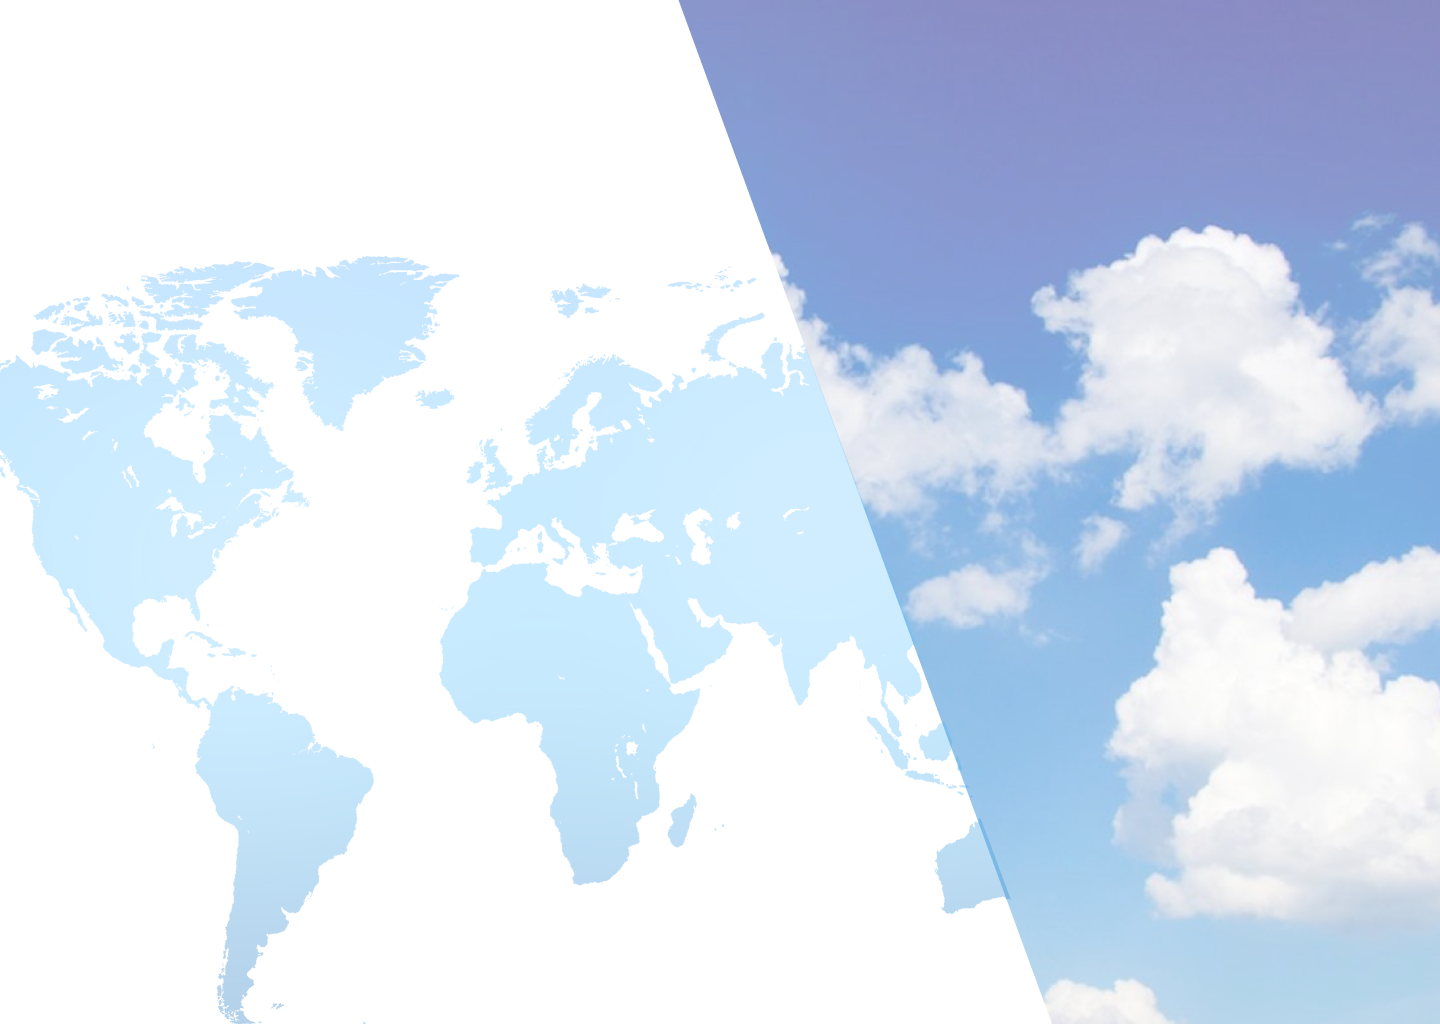
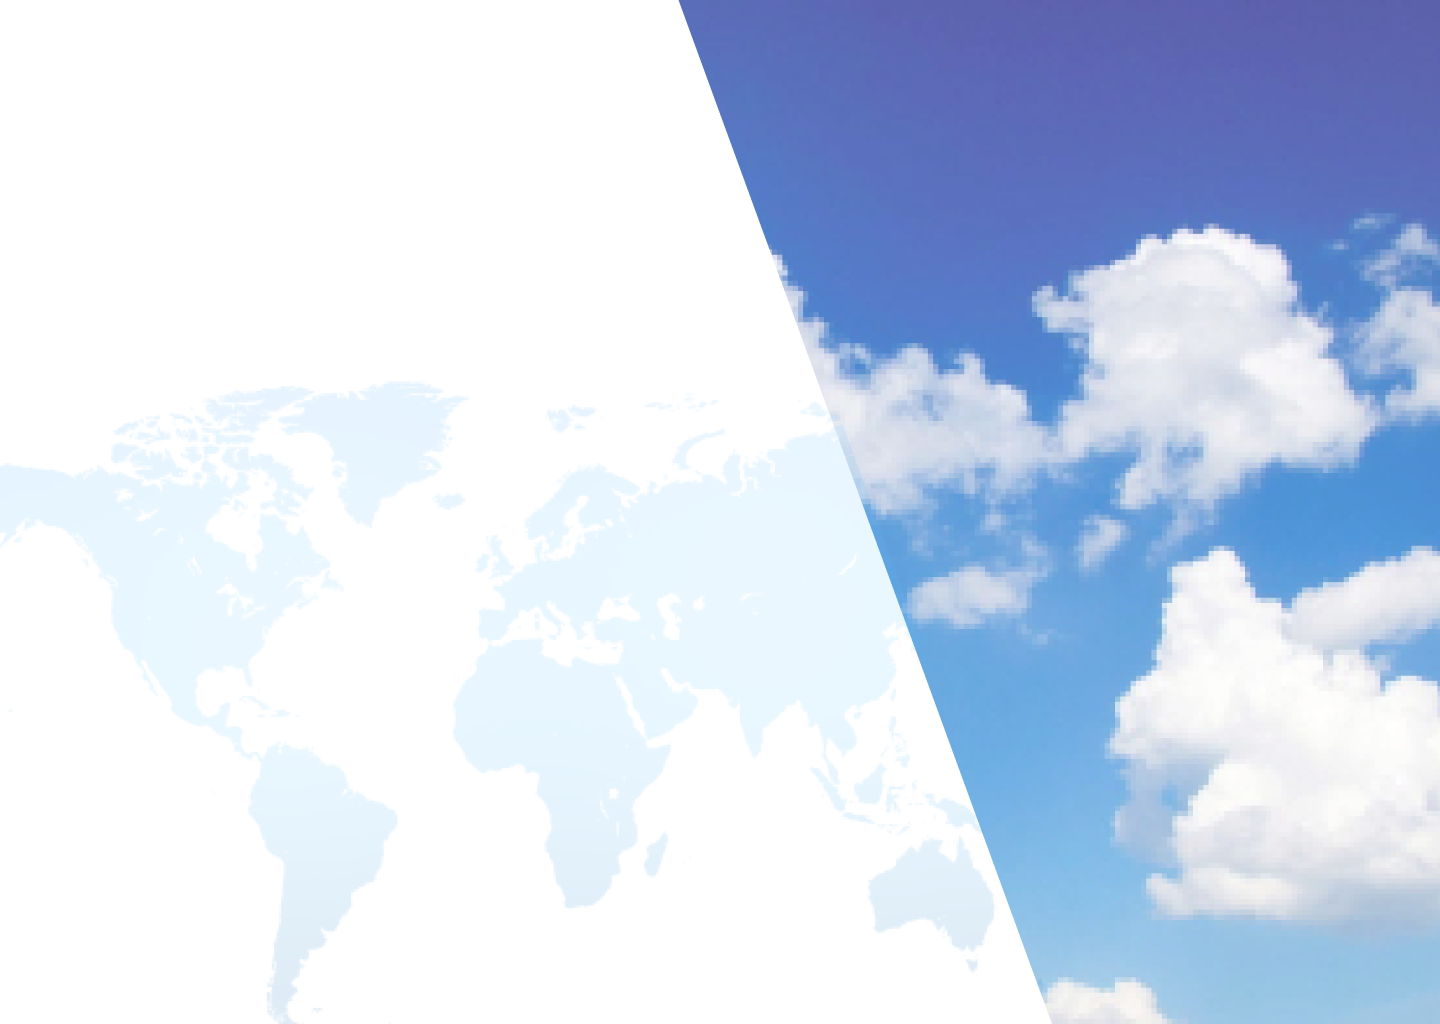
Background update.

diff --git a/css/style.css b/css/style.css
@@ -21,7 +21,7 @@ body {
 .mainContainer {
     background: url("../img/background.png") no-repeat center;
     background-size: cover;
-    height: 530px;
+    height: 480px;
     width: 900px;
     border-radius: 10px;
     padding: 20px 50px;
@@ -66,7 +66,7 @@ ul li:last-child {
 
 
 .bodyWrapper {
-    height: 100%;
+    height: calc(100% - 80px);
     width: 100%;
     font-family: 'Ubuntu', sans-serif;
     display: flex;
@@ -146,7 +146,7 @@ form .form--title {
 }
 
 .airplane {
-    width: 400px;
+    width: 450px;
 }
 
 
